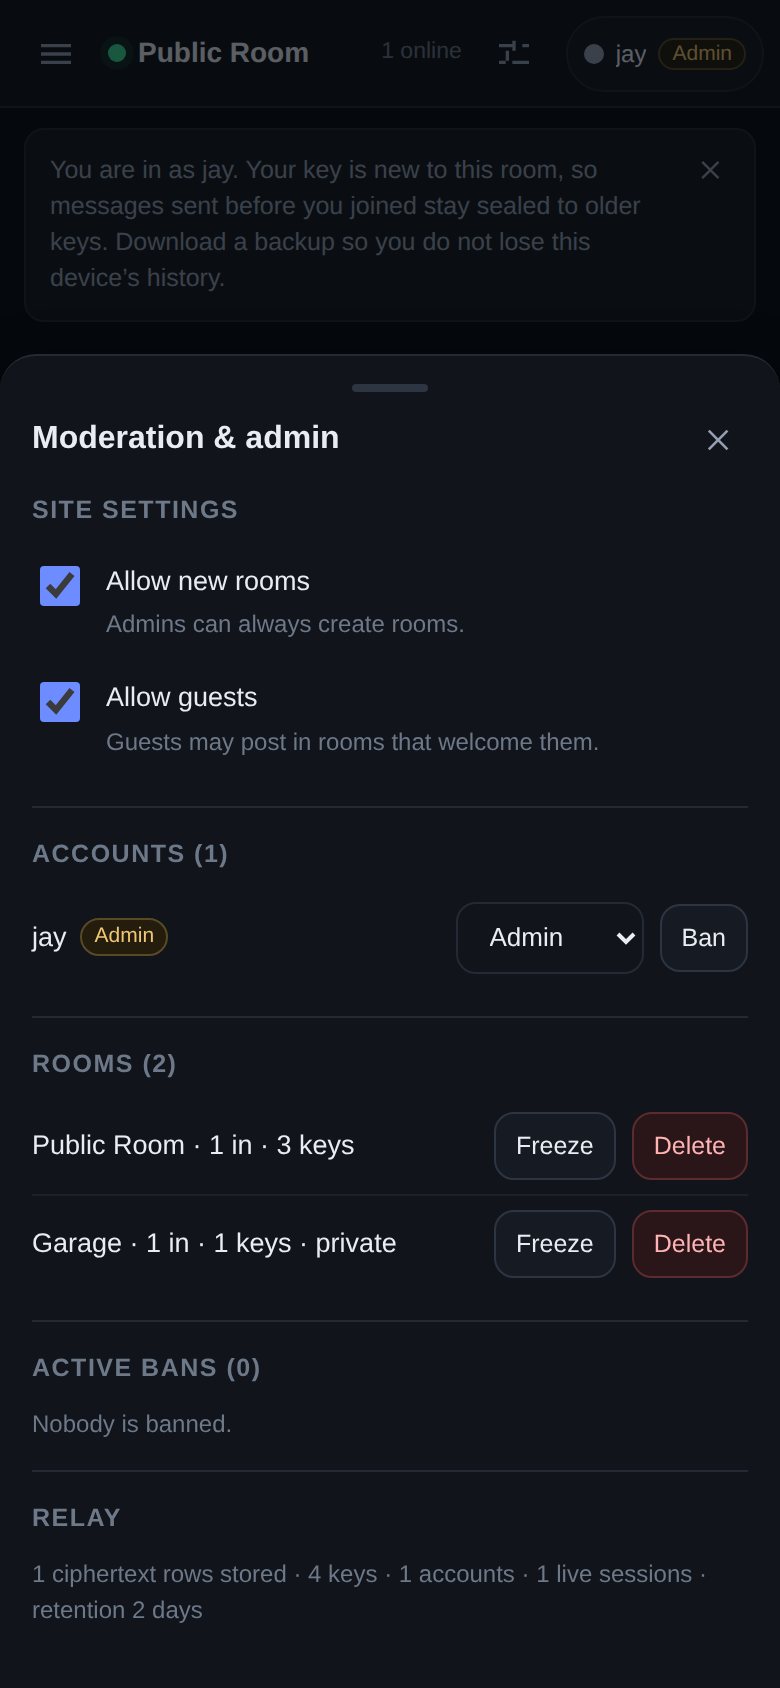
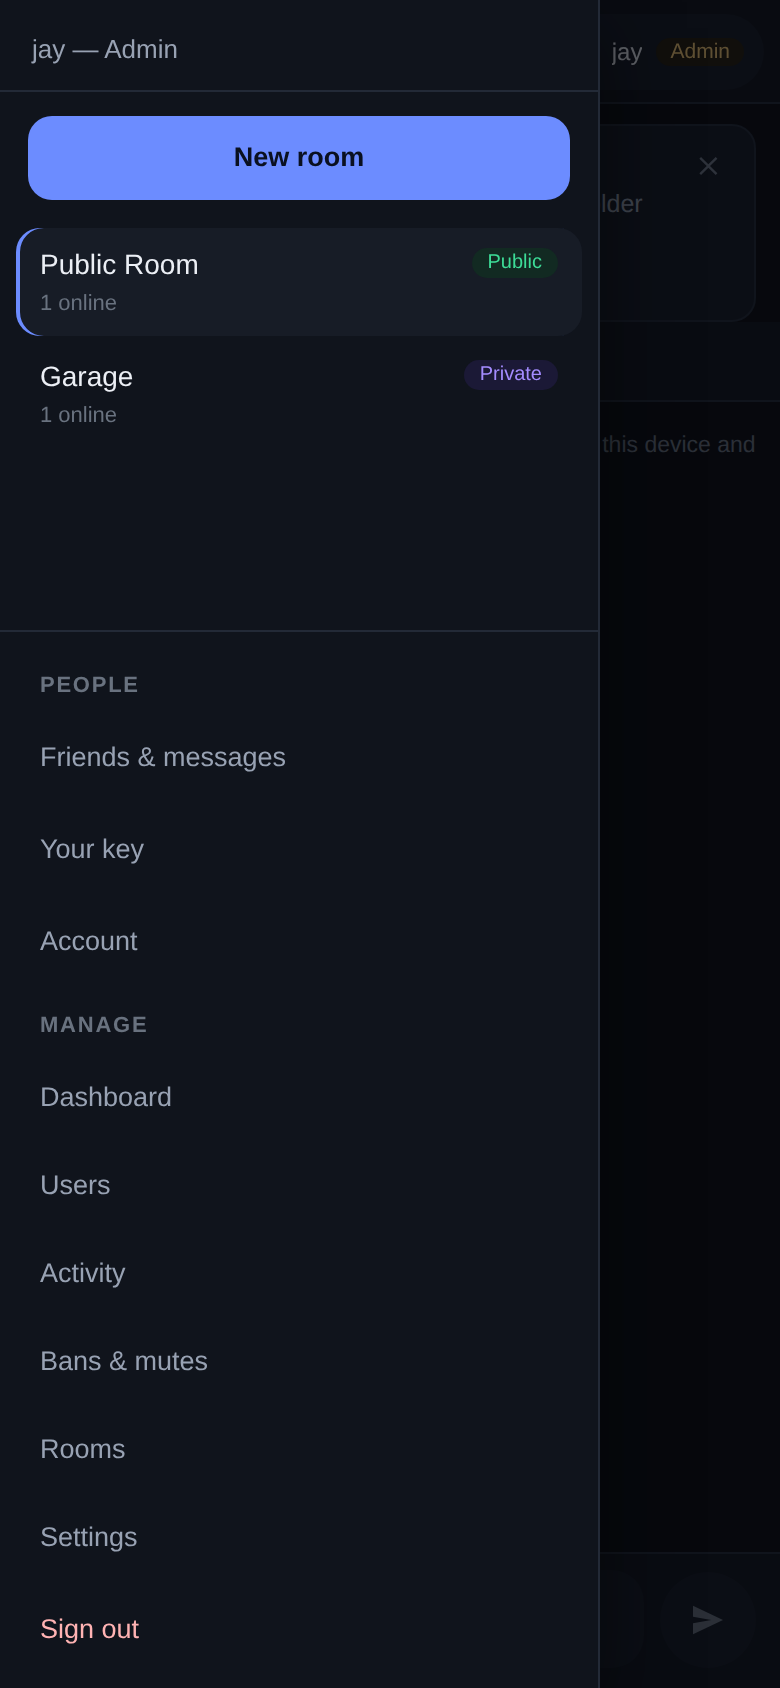
README: fresh screenshots from the current build
The old captures predated attachments, voice, owner powers and the
Manage pages — the room sheet still promised 'pictures and files in the
next update'. New trio: sign in, room settings sheet, and the hamburger
rail with rooms, people and the Manage menu.

diff --git a/README.md b/README.md
@@ -20,7 +20,7 @@ browser A ──encrypt+sign──▶ relay (ciphertext only) ──▶ browser 
 <p align="center">
   <img src="docs/img/signin-mobile.png" width="240" alt="Sign in, create an account, or continue as a guest">
   <img src="docs/img/room-controls-mobile.png" width="240" alt="Room controls: freeze, privacy, guest access, files">
-  <img src="docs/img/admin-mobile.png" width="240" alt="Moderation and admin: site settings, accounts, rooms, bans">
+  <img src="docs/img/admin-mobile.png" width="240" alt="The hamburger rail: rooms, people, and the Manage menu — dashboard, users, activity, bans, rooms, settings">
 </p>
 
 ## What it does
